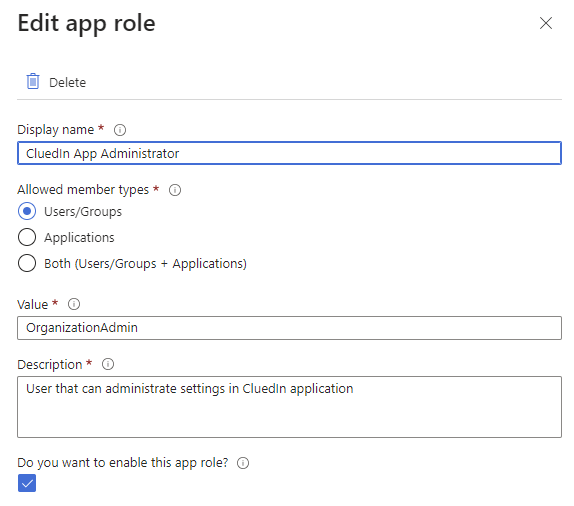
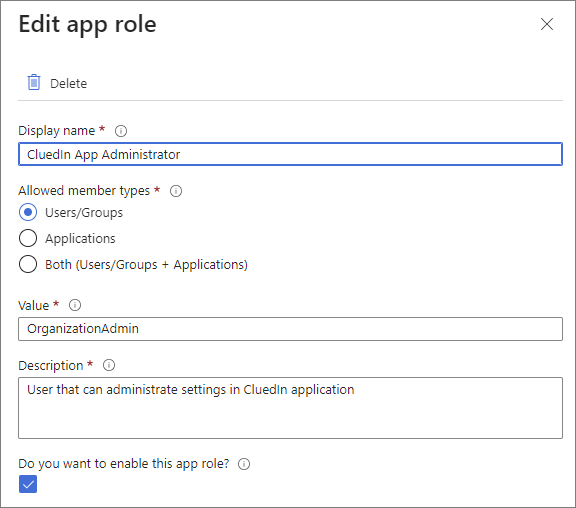
Added borders

diff --git a/docs/020-deployment/howtos/020-setup-sso.md b/docs/020-deployment/howtos/020-setup-sso.md
@@ -54,7 +54,6 @@ After you register the application, complete the following steps:
 1. [Expose an API](#expose-an-api)
 1. [Map Microsoft Entra application roles to CluedIn roles](#map-microsoft-entra-application-roles-to-CluedIn-roles)
  
-
 ### Create a client secret
 
 A client secret is used to configure CluedIn to communicate with Microsoft Entra.
@@ -173,10 +172,7 @@ After you complete the Azure application registration and app roles configuratio
 **Prerequisites**
 
 - You should be comfortable working in either PowerShell or bash terminal via Azure Cloud Shell.
-- You should be connected to your AKS cluster.
-
-    See [Connect to CluedIn cluster](/deployment/infra-how-tos/connect-to-cluedin) for detailed instructions.
-
+- You should be connected to your AKS cluster. See [Connect to CluedIn cluster](/deployment/infra-how-tos/connect-to-cluedin) for detailed instructions.
 - Your Helm repository is set up.
 
 If you have any questions, you can request CluedIn support by sending an email to <a href="mailto:support@cluedin.com">support@cluedin.com</a> (or reach out to your delivery manager if you have a committed deal).
@@ -221,4 +217,4 @@ If your SSO feature has been successfully applied, you should see something simi
 
 ![SSO_enabled.png](../../assets/images/ama/howtos/configure-sso-success-terminal.png)
 
-If the **Phase** is not in the **Active** state, wait for 5 minutes and run the command again. If nothing changes, reach out to CluedIn support at support@cluedin.com for help in enabling your SSO.
+If the **Phase** is not in the **Active** state, wait for 5 minutes and run the command again. If nothing changes, reach out to CluedIn support at <a href="mailto:support@cluedin.com">support@cluedin.com</a> for help in enabling your SSO.

diff --git a/docs/020-deployment/howtos/030-advanced-network.md b/docs/020-deployment/howtos/030-advanced-network.md
@@ -50,9 +50,7 @@ CluedIn can operate inside CIDR /23 with 510 available IP addresses. However, th
 When installing CluedIn from the Azure Marketplace, you can set up advanced network configuration on the **CluedIn - Advanced Configuration** tab. You can choose from the three networking options:
 
 - **Default** – a new vNet will be created using default values that may not allow you to integrate with the existing networks.
-
 - **Modify IP ranges** – a new vNet will be created with IP address ranges that you specify.
-
 - **Use Existing vNet** – an existing vNet will be used and you need to specify both the vNet and the IP address ranges.
 
 The following section focuses on the IP address configuration because it is universal to both the **Modify IP ranges** and the **Use Existing vNet** options.
@@ -108,10 +106,7 @@ This section contains a procedure for configuring CluedIn to use your internal l
 **Prerequisites**
 
 - You should be comfortable working in either PowerShell or bash terminal via Azure Cloud Shell.
-- You should be connected to your AKS cluster.
-
-    See [Connect to CluedIn cluster](/deployment/infra-how-tos/connect-to-cluedin) for detailed instructions.
-
+- You should be connected to your AKS cluster. See [Connect to CluedIn cluster](/deployment/infra-how-tos/connect-to-cluedin) for detailed instructions.
 - Your Helm repository is set up.
 
 If you have any questions, you can request CluedIn support by sending an email to <a href="mailto:support@cluedin.com">support@cluedin.com</a> (or reach out to your delivery manager if you have a committed deal).
